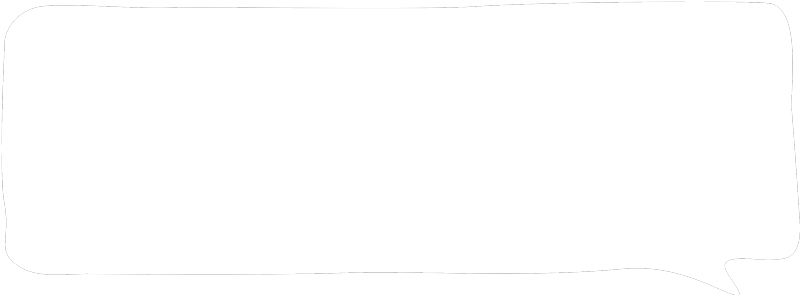
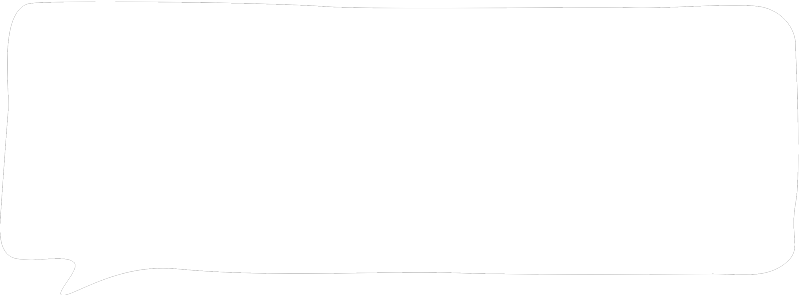
adjust styling for mobile and desktop, quote box faces other way round

diff --git a/microsite/app/css/_variables.css b/microsite/app/css/_variables.css
@@ -4,18 +4,19 @@
 
 :root {
 
-  --sans-serif: 'helvetica neue', helvetica, arial;
+  --sans-serif: 'lato', 'helvetica neue', helvetica, arial;
   --serif: georgia, serif;
+  --handwriting: Caveat;
   --code: consolas, monaco, monospace;
 
   --font-size-headline: 8rem;
   --font-size-subheadline: 5rem;
-  --font-size-1: 8rem;
-  --font-size-2: 6rem;
-  --font-size-3: 3.5rem;
-  --font-size-4: 2.25rem;
-  --font-size-5: 1.5rem;
-  --font-size-6: .875rem;
+  --font-size-1: 4.5rem;
+  --font-size-2: 3rem;
+  --font-size-3: 2rem;
+  --font-size-4: 1.2rem;
+  --font-size-5: 1rem;
+  --font-size-6: 0.8rem;
 
   --letter-spacing-tight:-.05em;
   --letter-spacing-1:.1em;
@@ -53,9 +54,9 @@
   --max-width-1: 1rem;
   --max-width-2: 2rem;
   --max-width-3: 4rem;
-  --max-width-4: 8rem;
+  --max-width-4: 10rem;
   --max-width-5: 16rem;
-  --max-width-6: 32rem;
+  --max-width-6: 27rem;
   --max-width-7: 48rem;
   --max-width-8: 64rem;
   --max-width-9: 96rem;

diff --git a/microsite/public/index.html b/microsite/public/index.html
@@ -3,6 +3,7 @@
 <head>
   <meta charset="utf-8">
   <title>Gingerbread Tips</title>
+  <meta name="viewport" content="width=device-width, initial-scale=1">
   <link href="https://fonts.googleapis.com/css?family=Caveat" rel="stylesheet">
   <link rel="stylesheet" href="/style.min.css">
 </head>

diff --git a/microsite/app/css/_custom.css b/microsite/app/css/_custom.css
@@ -1,6 +1,7 @@
 body {
   margin: 0;
   font-family: var(--sans-serif);
+  font-weight: 400;
 }
 
 .pointer {
@@ -8,7 +9,7 @@ body {
 }
 
 .handwriting {
-  font-family: Caveat;
+  font-family: var(--handwriting);
 }
 
 .br5 {
